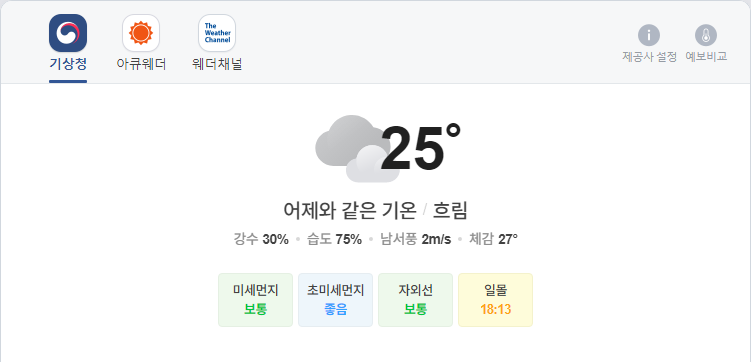
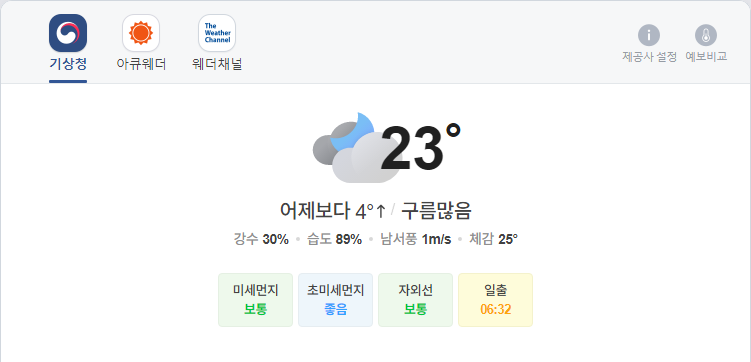
update result

diff --git a/README.md b/README.md
@@ -1,5 +1,5 @@
-##  2021-10-04 16:02:50   월요일 
-##### 날씨   -   어제와 같은 기온흐림  
+##  2021-10-05 05:54:58   화요일 
+##### 날씨   -   어제보다 4° 높아요구름많음  
 <center><img src="../img/naver_weather_week.png"></center>
 ----
 ----
@@ -13,11 +13,11 @@
 ##### 세계
 <table border="1" bordercolor="blue" align = "center" >
 <tr align = "right" > <td>Item</td><td>Point</td><td>Diff</td><td>Rate</td><td>Buy</td><td>Sell</td><td>...</td>  </tr>
-<tr align = "right" > <td>DOW</td><td>34,326.46</td><td>482.54</td><td><font size="3" color="red" >1.43%</font></td><td><font size="3" color="black">0</font></td><td><font size="3" color="black">0</font></td><td>0</td>  </tr>
-<tr align = "right" > <td>NASDAQ</td><td>14,566.7</td><td>118.12</td><td><font size="3" color="red" >0.82%</font></td><td><font size="3" color="black">0</font></td><td><font size="3" color="black">0</font></td><td>0</td>  </tr>
-<tr align = "right" > <td>S&P</td><td>4,357.04</td><td>49.5</td><td><font size="3" color="red" >1.15%</font></td><td><font size="3" color="black">0</font></td><td><font size="3" color="black">0</font></td><td>0</td>  </tr>
+<tr align = "right" > <td>DOW</td><td>34,002.92</td><td>-323.54</td><td><font size="3" color="blue" >-0.94%</font></td><td><font size="3" color="black">0</font></td><td><font size="3" color="black">0</font></td><td>0</td>  </tr>
+<tr align = "right" > <td>NASDAQ</td><td>14,255.49</td><td>-311.21</td><td><font size="3" color="blue" >-2.14%</font></td><td><font size="3" color="black">0</font></td><td><font size="3" color="black">0</font></td><td>0</td>  </tr>
+<tr align = "right" > <td>S&P</td><td>4,300.46</td><td>-56.58</td><td><font size="3" color="blue" >-1.3%</font></td><td><font size="3" color="black">0</font></td><td><font size="3" color="black">0</font></td><td>0</td>  </tr>
 <tr align = "right" > <td>SHANHAI</td><td>3,568.17</td><td>31.87</td><td><font size="3" color="red" >0.9%</font></td><td><font size="3" color="black">0</font></td><td><font size="3" color="black">0</font></td><td>0</td>  </tr>
-<tr align = "right" > <td>INDIA</td><td>59,309.44</td><td>543.86</td><td><font size="3" color="red" >0.93%</font></td><td><font size="3" color="black">0</font></td><td><font size="3" color="black">0</font></td><td>0</td>  </tr>
+<tr align = "right" > <td>INDIA</td><td>59,299.32</td><td>533.74</td><td><font size="3" color="red" >0.91%</font></td><td><font size="3" color="black">0</font></td><td><font size="3" color="black">0</font></td><td>0</td>  </tr>
 </table>
 ----
 ##### 시장
